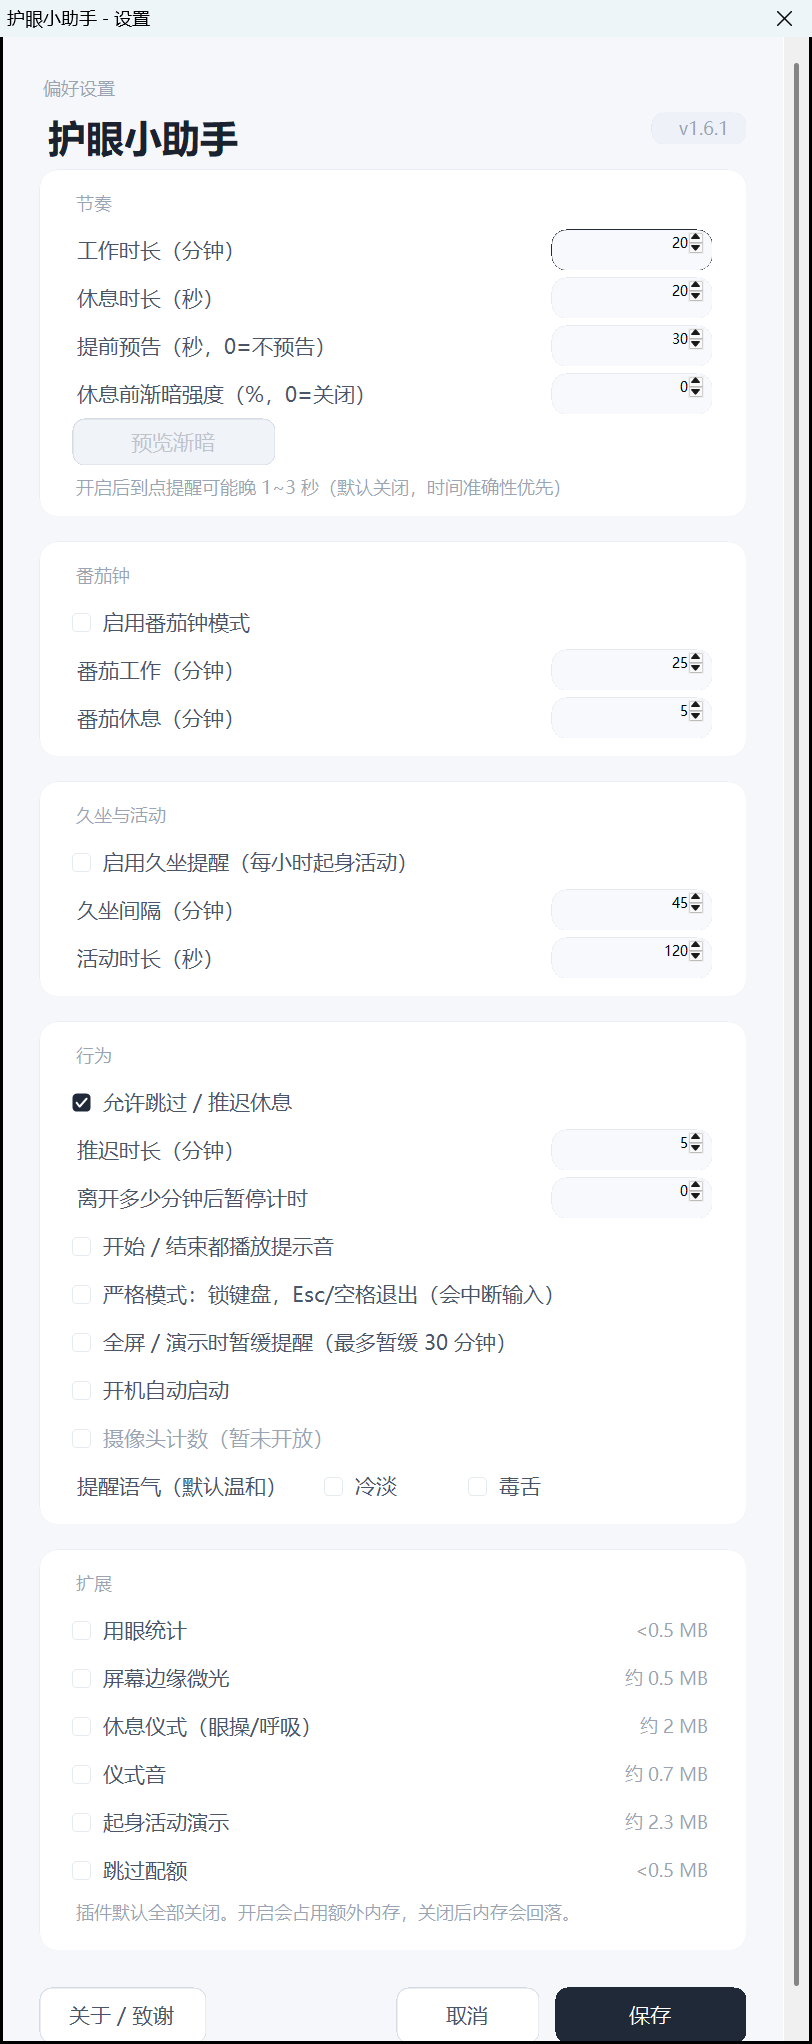
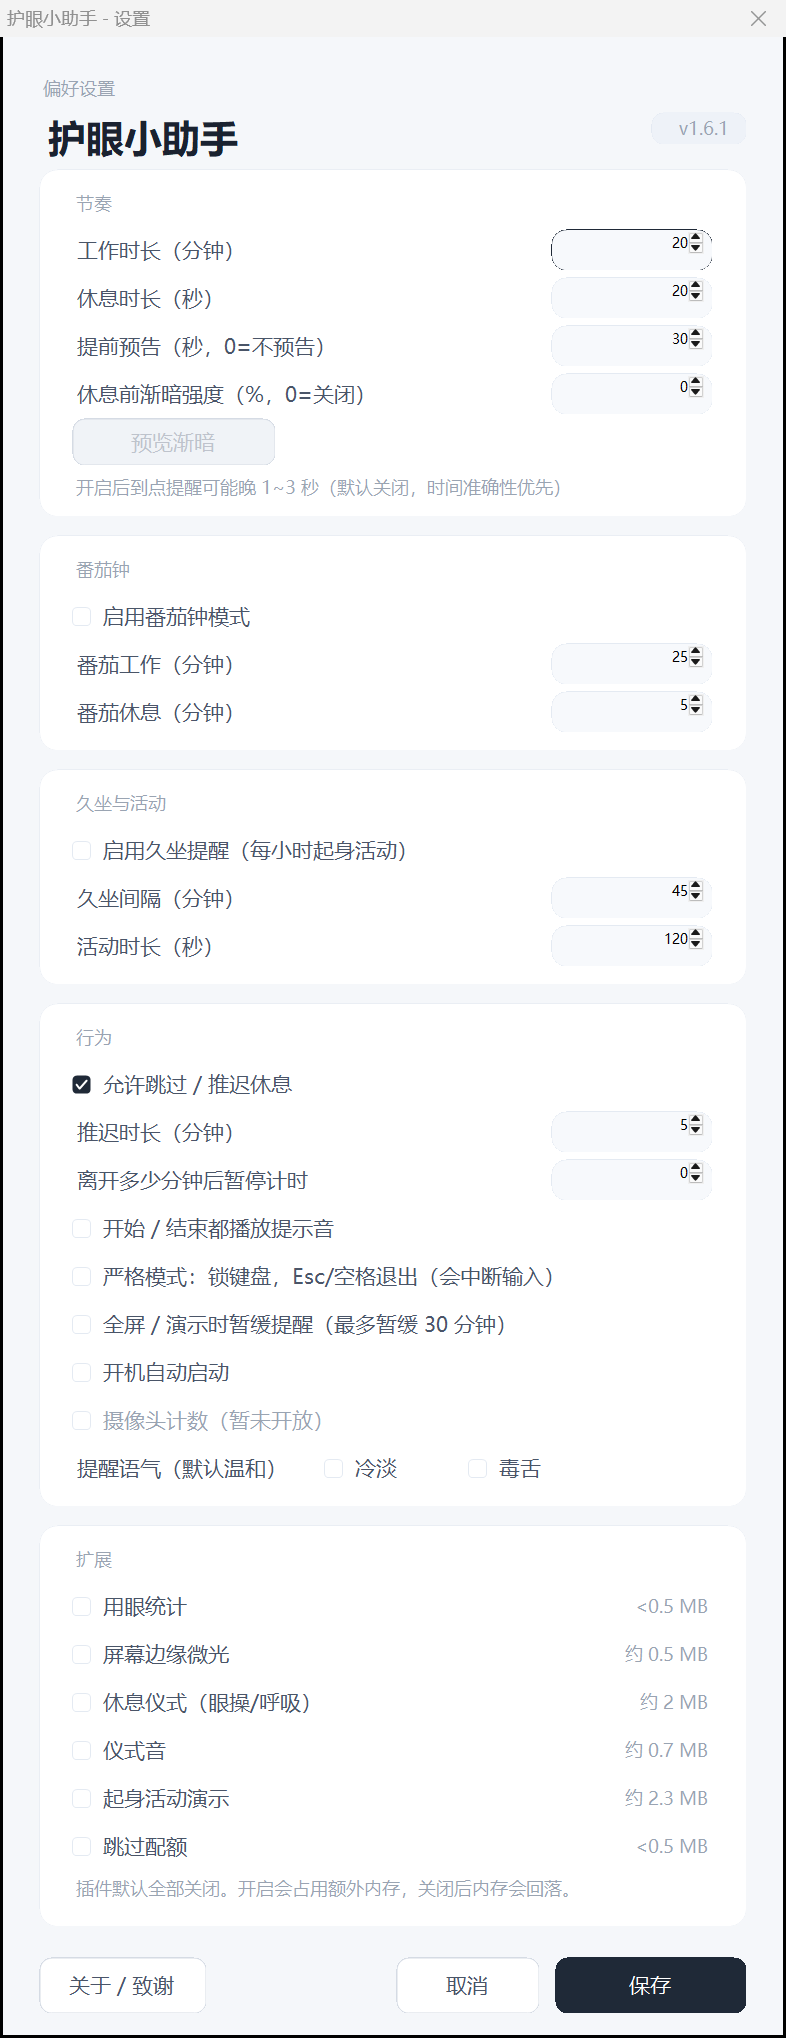
fix(settings): 纵向版式压 36px，4K@150% 打开即见「保存」；补 .gitignore 的 __pycache__
## 背景：内容比可装高度高 30px，底部被 AutoScroll 吃掉

150% DPI 下逐项 Sc() 求和得到内容自然高 2034，而窗口可装只有 2004
（`maxH = 工作区高 − Sc(56)`）。实测后果：窗口位图 812×2044，
「保存」按钮可见高度 57px（完整未裁）但底边贴死窗口底边、下方留白 1px（应有 27px），
且右侧多出一条 25px 的垂直滚动条。

缺口随屏幕变化（AutoScroll 才是兜底，不是本次要消灭的东西）：

    1080p@150% 缺 1078px｜1440p@150% 缺 718px｜4K@150% 缺 30px｜4K@200% 缺 736px

本次只解决 4K@150%（用户当前这块屏）：Gap 16→12、按钮前 24→20、底部 18→14，
共省 36px → 1998 ≤ 2004，余量 6px。

## 结果

    窗口位图  812×2044  →  786×2038
    宽度少 26px = 滚动条消失（17×1.5 = 25.5px）
    保存按钮下方出现留白，页面不再贴死底边

## 没有做的（结构性问题，留档在 FormH 上方的注释里）

真正该做的是把「保存/取消/关于」放进 Dock=Bottom 底栏、卡片区单独 Dock=Fill+AutoScroll。
那样所有屏幕都永远看得到保存，也不必为"加一行"重算余量。本轮没做：
它要改 AutoScrollMinSize 语义（btnY+38+18 → cursorTop+24），
而设置页几何刚用 tools/settings-ui-check.py 验收过（缺陷态 1/32、修复态 32/32），
不值得在封板日做机制级重构。

## .gitignore

补 `__pycache__/` 与 `*.pyc`：tools/ 下有 20+ 个 Python 脚本，跑一次就生成，
内容是本机绝对路径的编译产物，没有入库价值。

diff --git a/src/Program.cs b/src/Program.cs
@@ -5409,16 +5409,33 @@ namespace EyeLite
         private bool suppressPluginToggle;      // 回滚时改 Checked 会再次触发事件，用它挡掉递归
 
         // 版式常量（以下全部是 96dpi 下的设计值，运行时一律经 Sc() 乘 DPI 因子）
-        // 设计基准客户区 520 x 1356：
-        //   88(页头) + 232(节奏，4 行 + 预览按钮 + 渐暗代价小字) + 16 + 144(番茄钟) + 16
-        //   + 144(久坐与活动) + 16 + 336(行为，9 行) + 16 + 268(扩展，6 个插件)
-        //   + 24 + 38(按钮) + 18(底部留白) = 1356
+        // 设计基准客户区 520 x 1332：
+        //   88(页头) + 232(节奏，4 行 + 预览按钮 + 渐暗代价小字) + 12 + 144(番茄钟) + 12
+        //   + 144(久坐与活动) + 12 + 336(行为，9 行) + 12 + 268(扩展，6 个插件)
+        //   + 20 + 38(按钮) + 14(底部留白) = 1332
         //
         // 这个数字只是"内容的自然高度"，不是硬指标：窗口放不下时由 AutoScroll 兜住，
         // 所以再加行只要同步改这里 + 末尾的 AutoScrollMinSize，不会出现"按钮被切掉"。
         // （「扩展」卡恒定显示 —— 它是插件的唯一开关入口，藏起来就等于没有开关。）
+        //
+        // ---- 为什么间距 12、按钮前 20、底部 14（别随手改回 16/24/18）----
+        // 定位：这是**"让 4K@150% 这块屏不用滚"**，不是"修好了滚动"。
+        // 缺口随屏幕变化，AutoScroll 才是兜底；这里的余量只保证"4K@150% 打开即见保存按钮"：
+        //   1080p@150% 缺 1078px｜1440p@150% 缺 718px｜4K@150% 缺 30px｜4K@200% 缺 736px
+        // 压掉 36px（Gap 16→12、按钮前 24→20、底部 18→14）后，4K@150% 物理高 1998 ≤ 可装 2004。
+        // 注意 Gap 有 5 处用到：4 处是主卡片间距，第 5 处是「统计」卡（仅 Plugin_Stats 开启时出现，
+        // 那时内容高 1544 必然要滚动，本来就不指望放下，AutoScroll 兜住）。
+        // 1080p@150% / 1440p 缺口 700~1000px，压缩永远解决不了，"要滚"在那类屏上是既有设计、
+        // 不算缺陷 —— 别为此把行高也压小（RowHeight 32→30 会推翻整套已验收的几何）。
+        // 也别让三个月后的人以为这 36px 是通用解：它只服务用户当前这块屏。
+        //
+        // ---- 留档：真正该做的结构性方案（本轮没做）----
+        // 把「保存 / 取消 / 关于」放进 Dock=Bottom 的底栏，卡片区单独 Dock=Fill + AutoScroll。
+        // 那样所有屏幕都永远看得到保存，也不必再为"加一行"重算余量。
+        // 本轮没做：它要改 AutoScrollMinSize 语义（btnY+38+18 → cursorTop+24），
+        // 而设置页几何刚验收通过（tools/settings-ui-check.py 32/32），不值得在封板日重构。
         private const int FormW = 520;
-        private const int FormH = 1356;
+        private const int FormH = 1332;
         private const int CardLeft = 24;
         private const int CardWidth = 472;      // 520 - 24 * 2
         private const int CardPad = 22;         // 卡片左右内边距
@@ -5428,7 +5445,7 @@ namespace EyeLite
         private const int CheckHeight = 26;
         private const int NumWidth = 96;
         private const int NumHeight = 24;
-        private const int Gap = 16;
+        private const int Gap = 12;
 
         // DPI 缩放因子（1.0 = 96dpi）。字体是 pt 会随 DPI 放大，盒子必须同比放大，
         // 否则"字体高度 : 盒子高度"随 DPI 变化，文字就被裁。
@@ -5677,8 +5694,9 @@ namespace EyeLite
                 cursorTop = statTop + statH;
             }
 
-            // ---------- 底部按钮：最后一排卡片底部 + Sc(24) ----------
-            int btnY = cursorTop + Sc(24);
+            // ---------- 底部按钮：最后一排卡片底部 + Sc(20) ----------
+            // 原来是 Sc(24)；压到 20 是为 4K@150% 不出现滚动条，理由见 FormH 上方的注释。
+            int btnY = cursorTop + Sc(20);
 
             RoundButton ok = new RoundButton("保存", Sc(8), Ui.PrimaryBg, Ui.PrimaryHover,
                                              Color.White, Color.Empty, 0);
@@ -5716,7 +5734,7 @@ namespace EyeLite
 
             // 真正的滚动范围在这里才定得下来：内容总高 = 保存按钮底边 + 底部留白。
             // 宽度传 0 = 水平范围跟随客户区（见构造函数开头 AutoScroll 处的原因）。
-            this.AutoScrollMinSize = new Size(0, btnY + Sc(38) + Sc(18));
+            this.AutoScrollMinSize = new Size(0, btnY + Sc(38) + Sc(14));
         }
 
         // ================================================================
